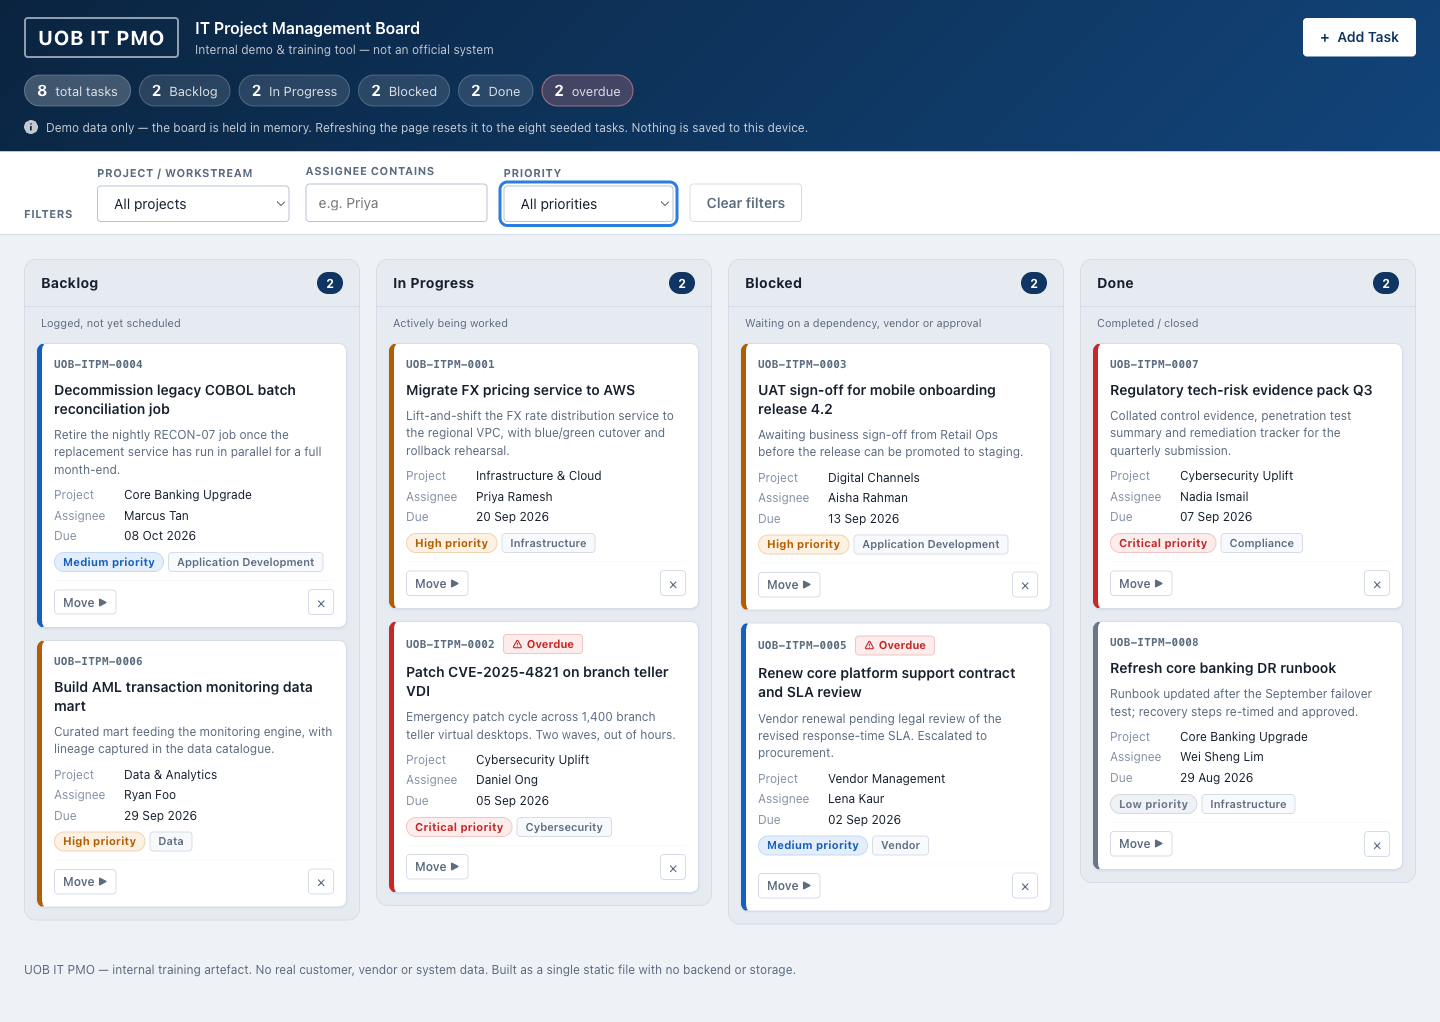
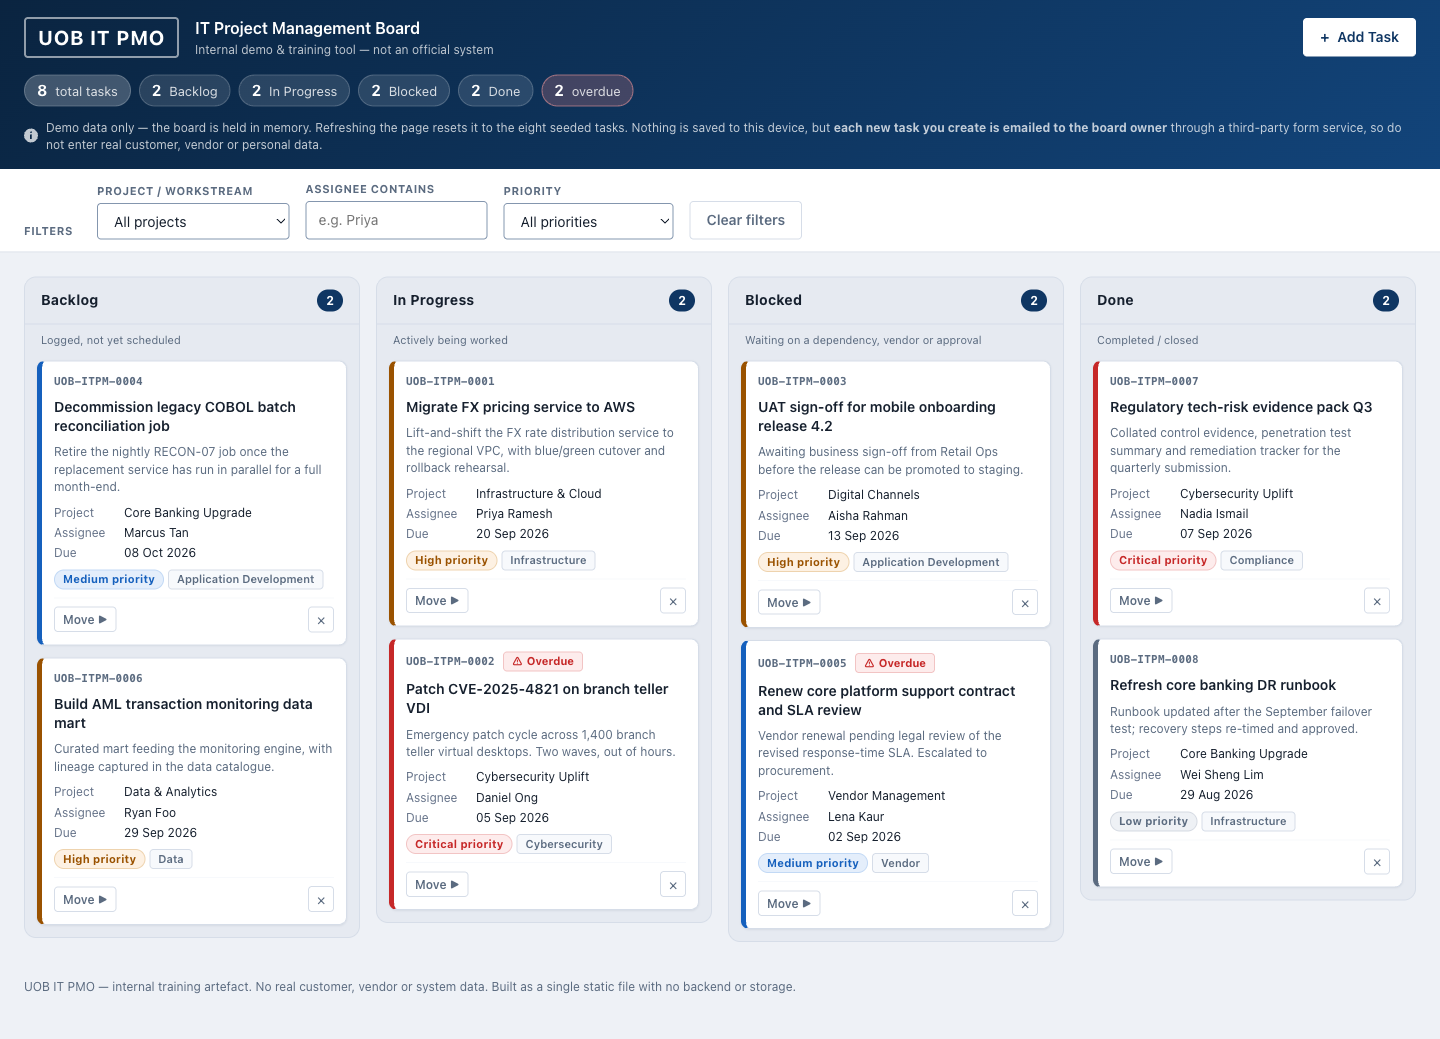
Refresh the README screenshots and add a dark-mode capture
Both retaken from the deployed Pages URL after the theme change, so the
README shows what visitors actually get rather than the pre-dark build.

diff --git a/README.md b/README.md
@@ -8,9 +8,12 @@ double-clicking the file.
 
 ## Screenshots
 
-The Kanban board at [/VSCODE/](https://binunair82.github.io/Claude-training/VSCODE/):
+The Kanban board at [/VSCODE/](https://binunair82.github.io/Claude-training/VSCODE/),
+which follows the operating system's light or dark setting:
 
-![UOB IT PMO Project Board — four columns of task cards with filters and a board summary](docs/screenshots/kanban-board.png)
+![UOB IT PMO Project Board in light mode — four columns of task cards with filters and a board summary](docs/screenshots/kanban-board.png)
+
+![The same board in dark mode, with the same layout on a deep navy ground](docs/screenshots/kanban-board-dark.png)
 
 The landing page at the repository root:
 
